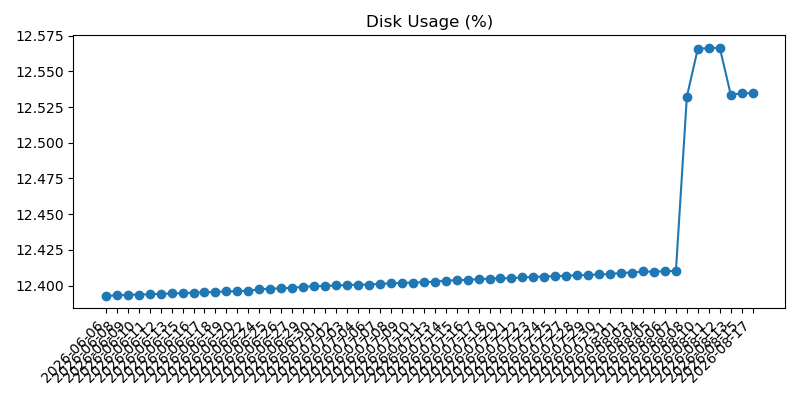
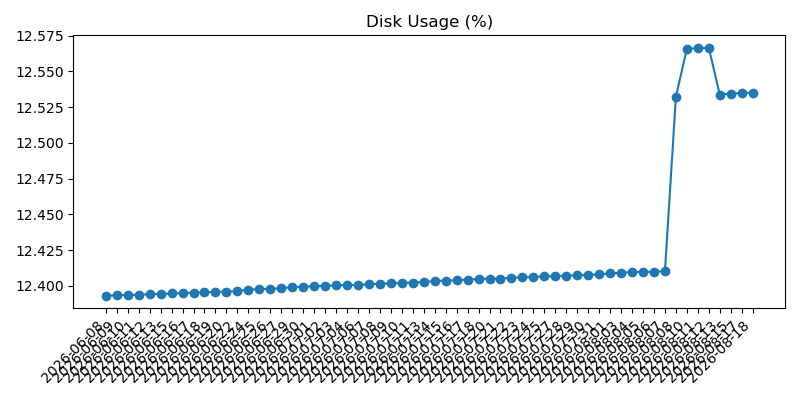
Add daily health and weather snapshot

diff --git a/2026-08.md b/2026-08.md
@@ -442,3 +442,37 @@
 - Overall: Good
 - Warning: None
 
+## 2026-08-18 16:46:29
+
+### Machine
+- Uptime: up 4 days, 2 hours, 5 minutes
+- CPU load (1m, 5m, 15m): 0.00, 0.00, 0.00
+- RAM used: 165 MB / 921 MB (17.9%)
+- Disk used (/): 3.6 GB / 28.8 GB (12.5%)
+- Free disk space (/): 24.0 GB
+- CPU temp: 46.2°C
+- Voltage / throttling: OK
+
+### Reachability
+- Internet check (1.1.1.1): Reachable (3.8 ms)
+
+### Weather
+- Madrid:
+  - Condition: Despejado
+  - Max temp: 38°C
+  - Min temp: 23°C
+  - Feels like: 31°C
+  - Chance of rain: 0%
+  - Warnings: None reported
+- Barcelona:
+  - Condition: Intervalos nubosos
+  - Max temp: 33°C
+  - Min temp: 27°C
+  - Feels like: 30°C
+  - Chance of rain: 85%
+  - Warnings: None reported
+
+### Health
+- Overall: Good
+- Warning: None
+
